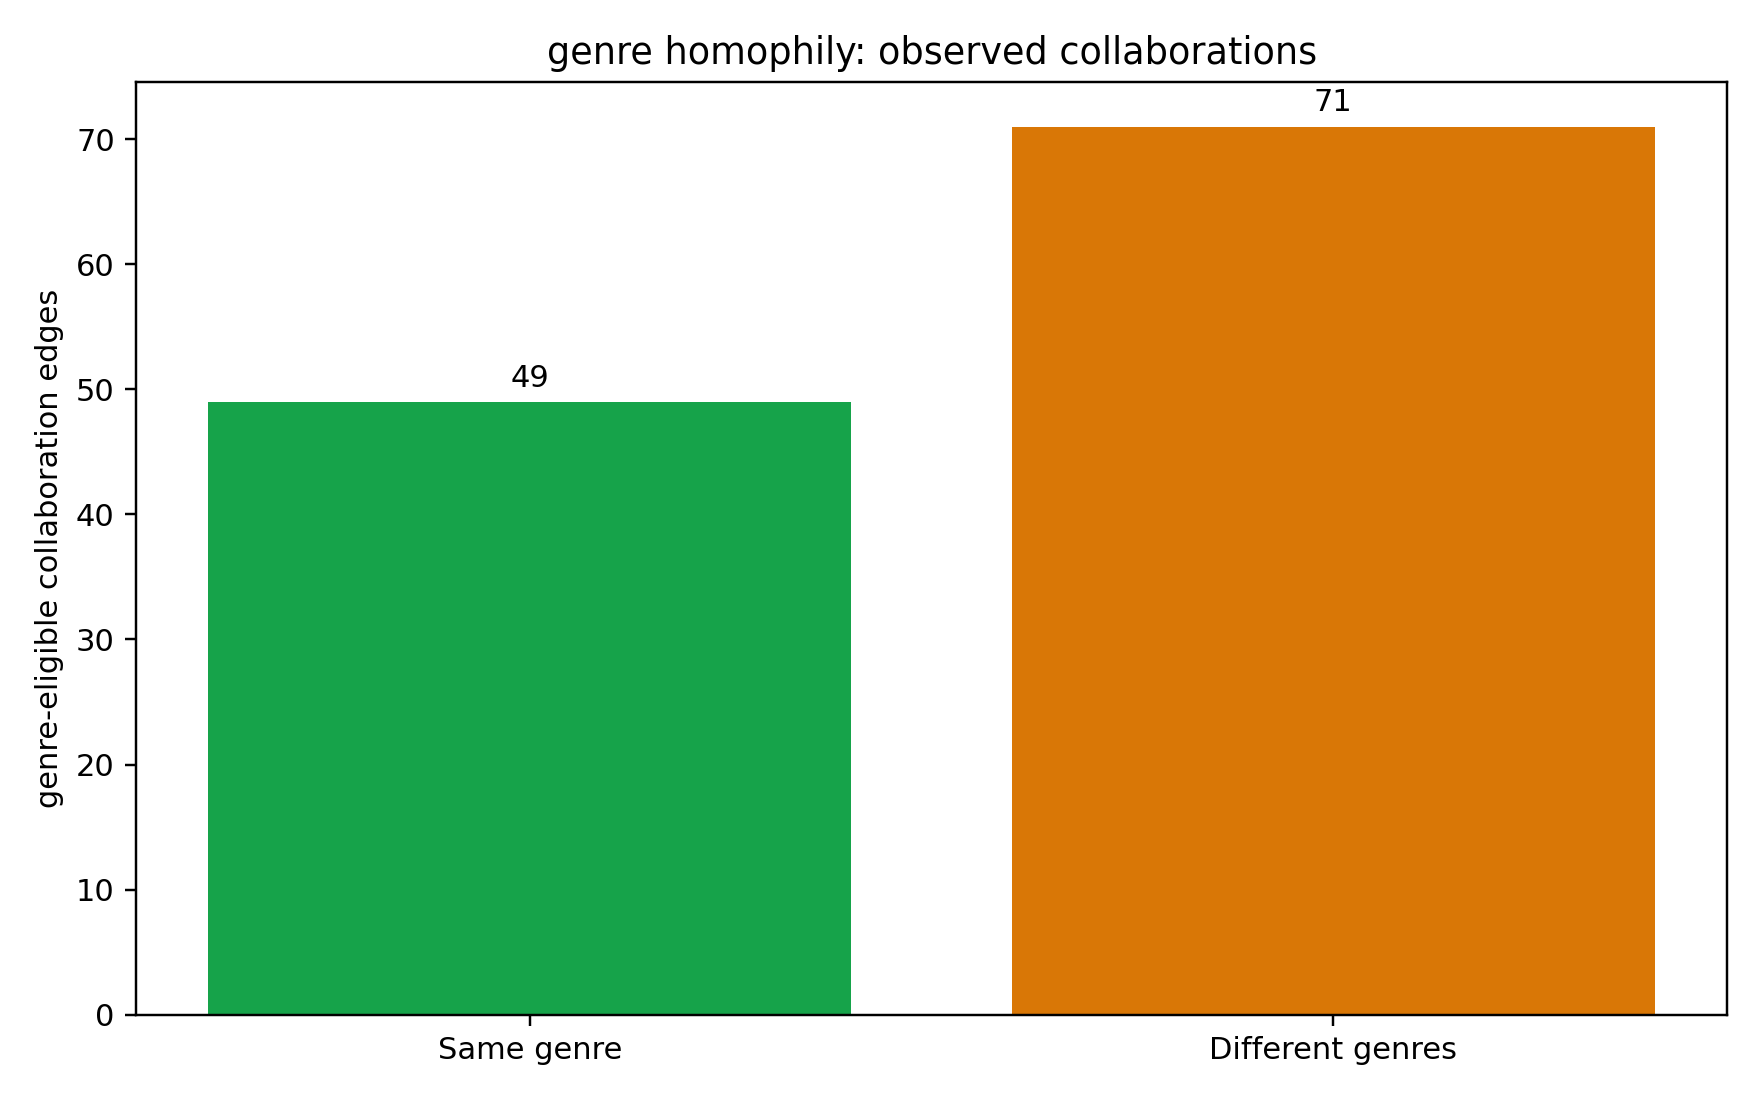
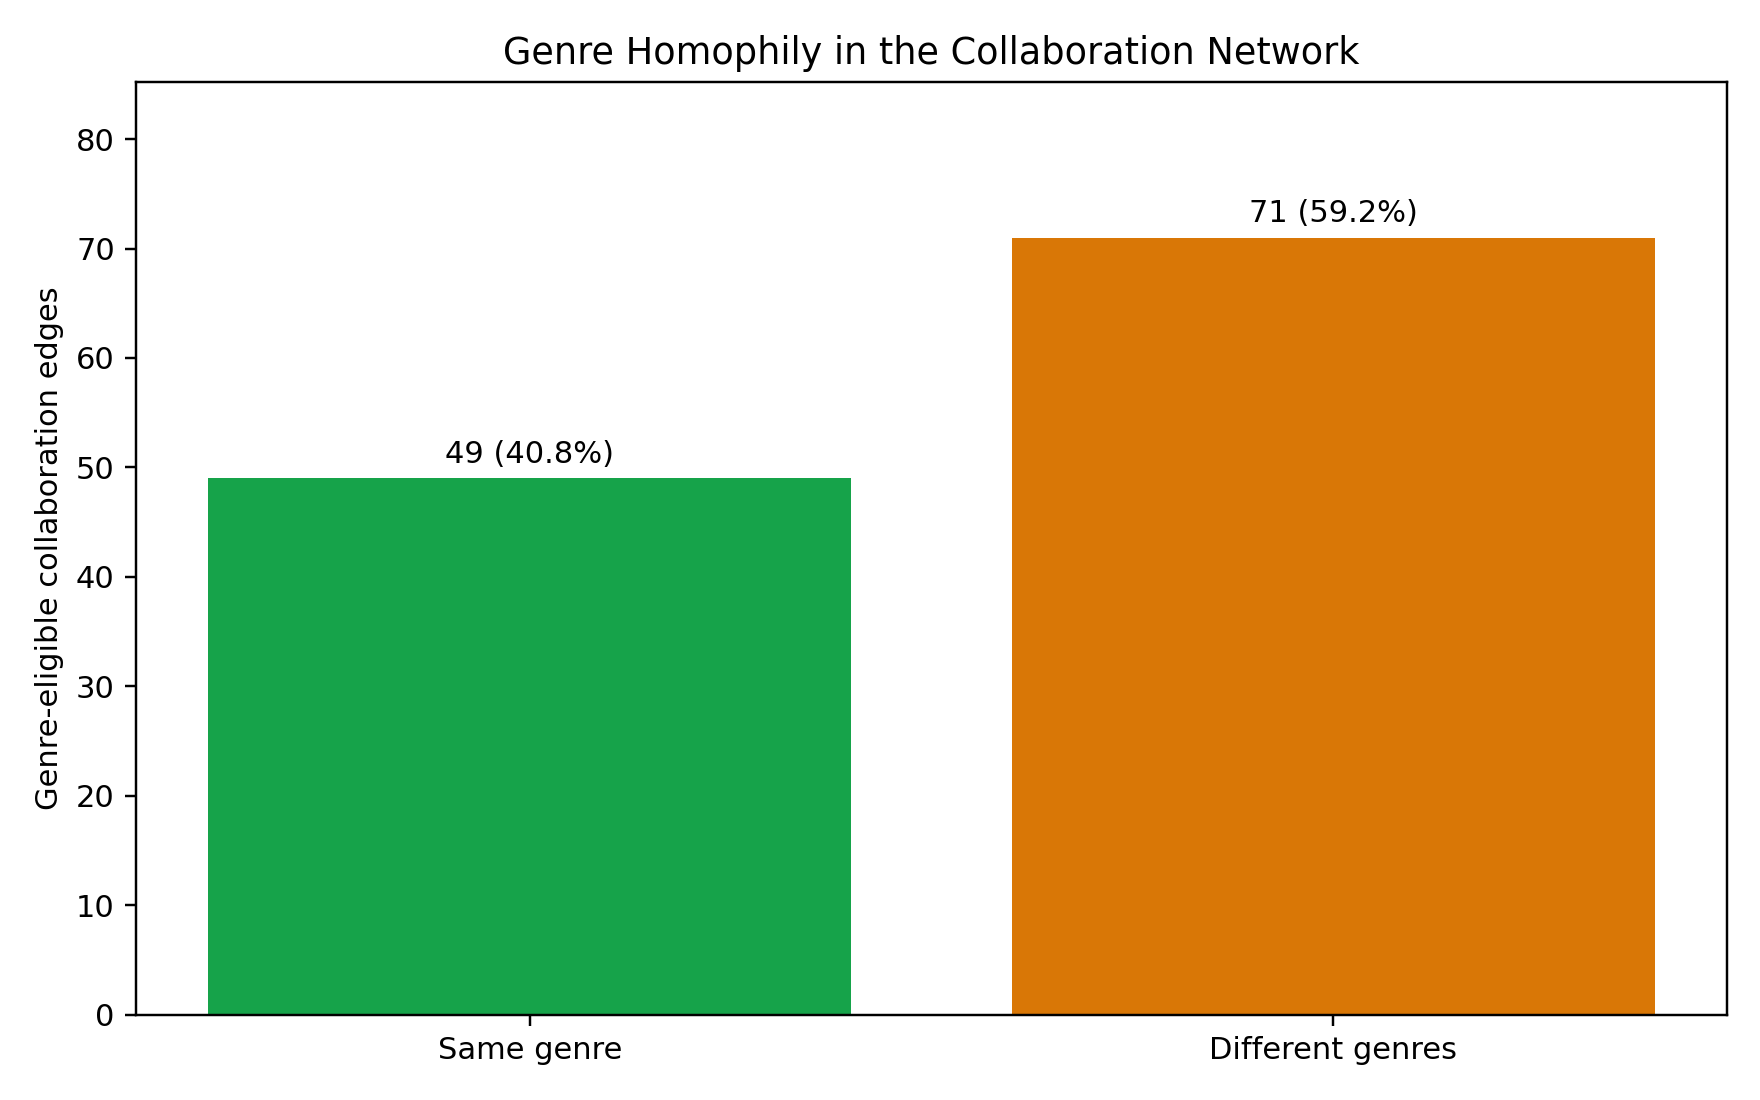
fix: add percentages in genre homophily graph

diff --git a/data-analysis/visualize_results.py b/data-analysis/visualize_results.py
@@ -524,12 +524,19 @@ def plot_homophily_additions(hom_dir, out):
     genre = hom_dir/"genre_homophily.csv"
     if genre.exists():
         df = pd.read_csv(genre)
-        if not df.empty and {"same_genre_edges","cross_genre_edges"}.issubset(df):
-            r = df.iloc[0]; fig,ax=plt.subplots(figsize=(8,5))
-            bars = ax.bar(["Same genre", "Different genres"], [r.same_genre_edges,r.cross_genre_edges],color=["#16a34a","#d97706"])
-            ax.bar_label(bars, padding=3)
-            ax.set(ylabel="genre-eligible collaboration edges",title="genre homophily: observed collaborations")
-            fig.tight_layout();fig.savefig(out/"genre_homophily_edges.png",dpi=220);plt.close(fig)
+        if not df.empty and {"same_genre_edges","cross_genre_edges"}.issubset(df.columns):
+            r = df.iloc[0]
+            values = [int(r.same_genre_edges),int(r.cross_genre_edges)]
+            total = sum(values)
+            fig, ax = plt.subplots(figsize=(8, 5))
+            bars = ax.bar(["Same genre", "Different genres"],values,color=["#16a34a", "#d97706"])
+            labels = [f"{v} ({v / total * 100:.1f}%)"for v in values]
+            ax.bar_label(bars, labels=labels, padding=3)
+            ax.set(ylabel="Genre-eligible collaboration edges",title="Genre Homophily in the Collaboration Network")
+            ax.set_ylim(0, max(values) * 1.2)
+            fig.tight_layout()
+            fig.savefig(out / "genre_homophily_edges.png",dpi=220)
+            plt.close(fig)
     community = hom_dir/"community_homophily.csv"
     if community.exists():
         df = pd.read_csv(community)
